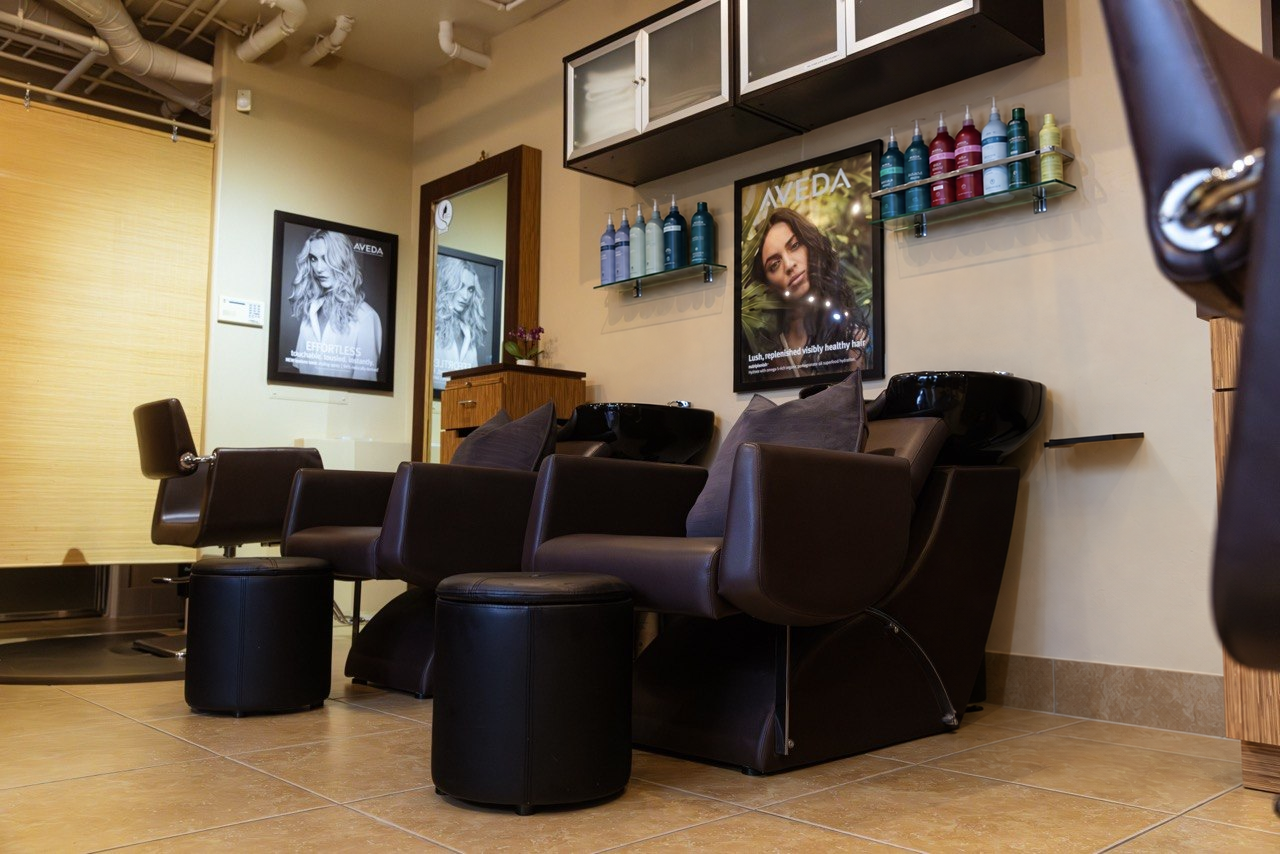
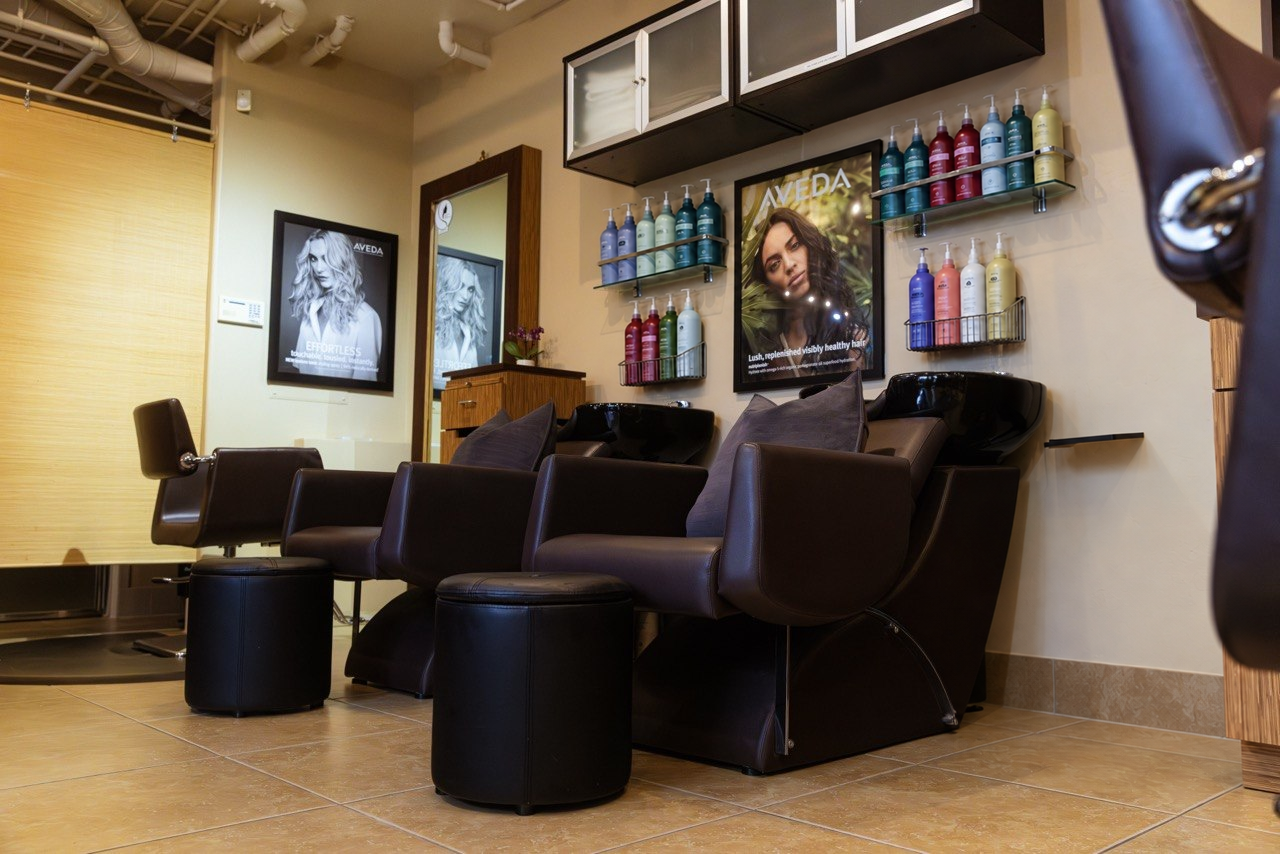
Salon basins: J's favourite edit replaces 6-shampoo-basins-edit.png; v7 film prompt names it and records the Dreamina settings (16:9, 480P, 15 s)

Changed region(s): [[0.4688, 0.2131, 0.5938, 0.4871], [0.6875, 0.274, 0.8125, 0.4567], [0.6875, 0.0913, 0.8438, 0.2436]]

diff --git a/README.md b/README.md
@@ -36,7 +36,7 @@ Option 1 and Option 2 also carry the same four files inside their `design-system
 [`resources/`](resources) holds material from the client for use across the options:
 
 - `coach-photo-beach.jpg`: a photo supplied on 13 Oct 2026 (960 × 1280).
-- [`salon-photos/`](resources/salon-photos): seventeen real photos of the salon, supplied on 19 Oct 2026 (about 1280 × 854 or 854 × 1280). Portraits: `1-portrait-standing-product-wall`, `3-portrait-arms-crossed`, `5-portrait-seated-fireplace`, `13-portrait-outdoor-white-blazer`, `14-portrait-standing-shelves`, `16-portrait-team-member-mirror`; the team: `9-team-of-three`. The space: `2-lounge-fireplace`, `4-styling-chair-window`, `6-shampoo-basins` (use J's cleaned-up `6-shampoo-basins-edit.png`), `7-aveda-product-shelves`, `8-glo-skincare-display`, `10-color-bar`, `11-styling-stations`, `12-shampoo-basins-backbar`, `15-aveda-plant-artwork`, `17-shampoo-basins-wide`. They replace the AI placeholder photos as each slide is updated.
+- [`salon-photos/`](resources/salon-photos): seventeen real photos of the salon, supplied on 19 Oct 2026 (about 1280 × 854 or 854 × 1280). Portraits: `1-portrait-standing-product-wall`, `3-portrait-arms-crossed`, `5-portrait-seated-fireplace`, `13-portrait-outdoor-white-blazer`, `14-portrait-standing-shelves`, `16-portrait-team-member-mirror`; the team: `9-team-of-three`. The space: `2-lounge-fireplace`, `4-styling-chair-window`, `6-shampoo-basins` (use J's cleaned-up `6-shampoo-basins-edit.png`, his favourite, replaced 25 Oct 2026; the Rooted film's room reference), `7-aveda-product-shelves`, `8-glo-skincare-display`, `10-color-bar`, `11-styling-stations`, `12-shampoo-basins-backbar`, `15-aveda-plant-artwork`, `17-shampoo-basins-wide`. They replace the AI placeholder photos as each slide is updated.
 
 ## What else is in here
 

diff --git a/option-2.2/film-prompts/01-salon-rooted-top-v7-CURRENT.md b/option-2.2/film-prompts/01-salon-rooted-top-v7-CURRENT.md
@@ -3,7 +3,9 @@ v6 plus Maggie's notes from the 19 Oct stream (salon-om-stream-transcript, timec
 Designer 1 masks this film over the existing roots film (../site/media/earth.mp4).
 
 ATTACH (each image at most 2.5 times as wide as it is tall, or the platform rejects it; the stream at 2:23:25)
-- @salon_om_backwash: the client's cleaned photo of the backwash area, 1280 x 854 (ratio 1.5). How the room looks.
+- @salon_om_backwash: ../../resources/salon-photos/6-shampoo-basins-edit.png, J's favourite cleaned photo of the backwash area (25 Oct), 1280 x 854 (ratio 1.5). How the room looks.
+
+LOADED IN DREAMINA 25 Oct (J's settings): Seedance 2.5, Omni reference, 16:9, 480P, 15 s; Image 1 = @salon_om_backwash, Image 2 = @layout, Video 1 = @move; '10-second' read as '15-second', plus "Follow video 1 for the camera motion only; its grey shapes are not the look."
 - @layout: renders/v5-first-frame.png, 960 x 640 (ratio 1.5). Grey 3D blockout: ONLY the camera angle and where the basin, head, hair and hands are.
 - @move (if the platform takes a motion reference): renders/salon-om-side-orbit-v5-10s.mp4. ONLY the camera move.
 
